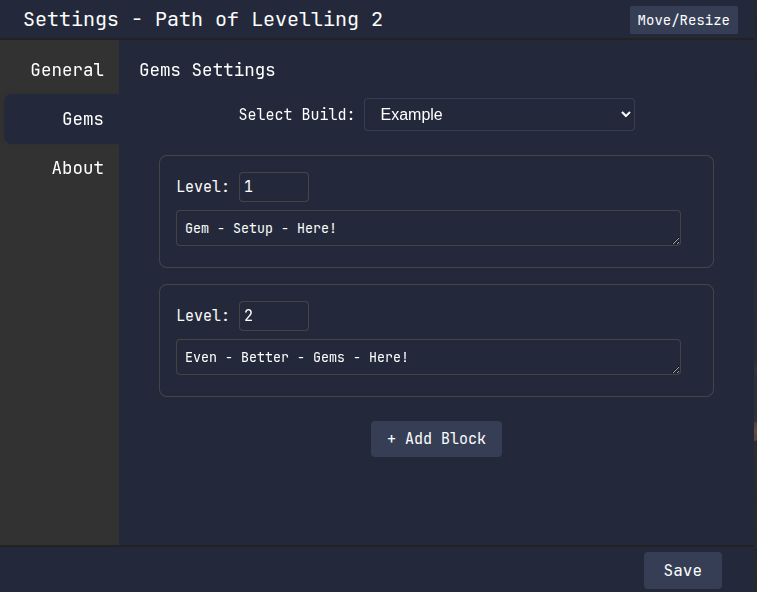
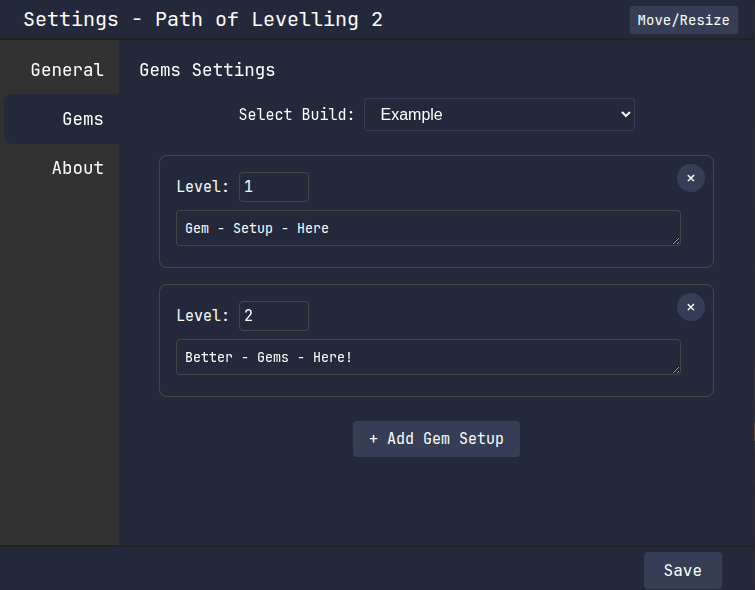
add button to delete a gem setup on gem setup screen

diff --git a/src/renderer/index.css b/src/renderer/index.css
@@ -275,6 +275,8 @@ react-draggable {
 
 .GemSettingsBlocksContainer {
 	margin-top: 24px;
+	/* need padding so that banner doesn't cover Add Gem Setup button */
+	padding-bottom: 48px;
 	display: flex;
 	flex-direction: column;
 	align-items: center;
@@ -282,6 +284,7 @@ react-draggable {
 }
 
 .GemSettingsBlock {
+	position: relative;
 	width: calc(100% - 40px);
 	/* Add horizontal padding */
 	margin-left: 0;
@@ -308,6 +311,34 @@ react-draggable {
 	display: block;
 	margin-left: auto;
 	margin-right: auto;
+}
+
+.GemSettingsRemoveBlockButton {
+	position: absolute;
+	top: 8px;
+	right: 8px;
+	background: #353e54;
+	color: #fff;
+	border: none;
+	border-radius: 50%;
+	width: 28px;
+	height: 28px;
+	font-size: 18px;
+	font-weight: bold;
+	cursor: pointer;
+	transition: background 0.2s;
+	margin: 0;
+	z-index: 2;
+	display: flex;
+	align-items: center;
+	justify-content: center;
+	padding: 0;
+	line-height: 1;
+}
+
+.GemSettingsRemoveBlockButton:hover {
+	background: #d9534f;
+	color: #fff;
 }
 
 .GemSettingsLevelInput {

diff --git a/src/renderer/Components/Settings/GemSettingsComponent.tsx b/src/renderer/Components/Settings/GemSettingsComponent.tsx
@@ -156,6 +156,15 @@ export function GemSettingsComponent() {
                                 className="GemSettingsLinksTextarea"
                             />
                         </label>
+                        <button
+                            className="GemSettingsRemoveBlockButton"
+                            onClick={() => {
+                                setEditableGemSetups(editableGemSetups.filter((_, i) => i !== idx));
+                            }}
+                            title="Remove block"
+                        >
+                            &times;
+                        </button>
                     </div>
                 ))}
                 <button
@@ -170,7 +179,7 @@ export function GemSettingsComponent() {
                         ]);
                     }}
                 >
-                    + Add Block
+                    + Add Gem Setup
                 </button>
             </div>
             <div className="GemSettingsBanner">

diff --git a/src/renderer/Components/Settings/AboutSettingsComponent.tsx b/src/renderer/Components/Settings/AboutSettingsComponent.tsx
@@ -6,7 +6,7 @@ export function AboutSettingsComponent() {
             <p>Documentation available <a href="https://kami-guru.github.io/path-of-levelling-2/">here</a></p>
             <p>Source code available <a href="https://github.com/Kami-Guru/path-of-levelling-2">here</a></p>
             <p></p>
-            <p>Version 0.1.35</p>
+            <p>Version 0.1.36</p>
             <p>Created by Kami Guru</p>
             <p>Special thanks to Lolcohol for the layout images, and RayOfSunshine for the additional assets.</p>
         </div>
